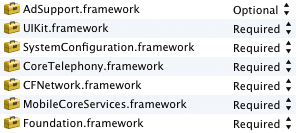
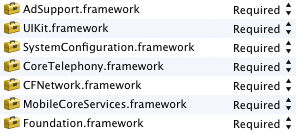
Updated: Readme.md

Changed region(s): [[0.7601, 0.0301, 1.0, 0.1203]]

diff --git a/Readme.md b/Readme.md
@@ -14,7 +14,7 @@ After cloning the repository a folder called "TrademobFramework" has been create
 
 ###### Framework depenencies
 
-Add the following frameworks to your project. Note that if you are targeting iOS versions < 5.0 the AdSupport.framework needs to be optional.
+Add the following frameworks to your project.
 
 ![ ](Documentation/images/frameworks.png)
 
